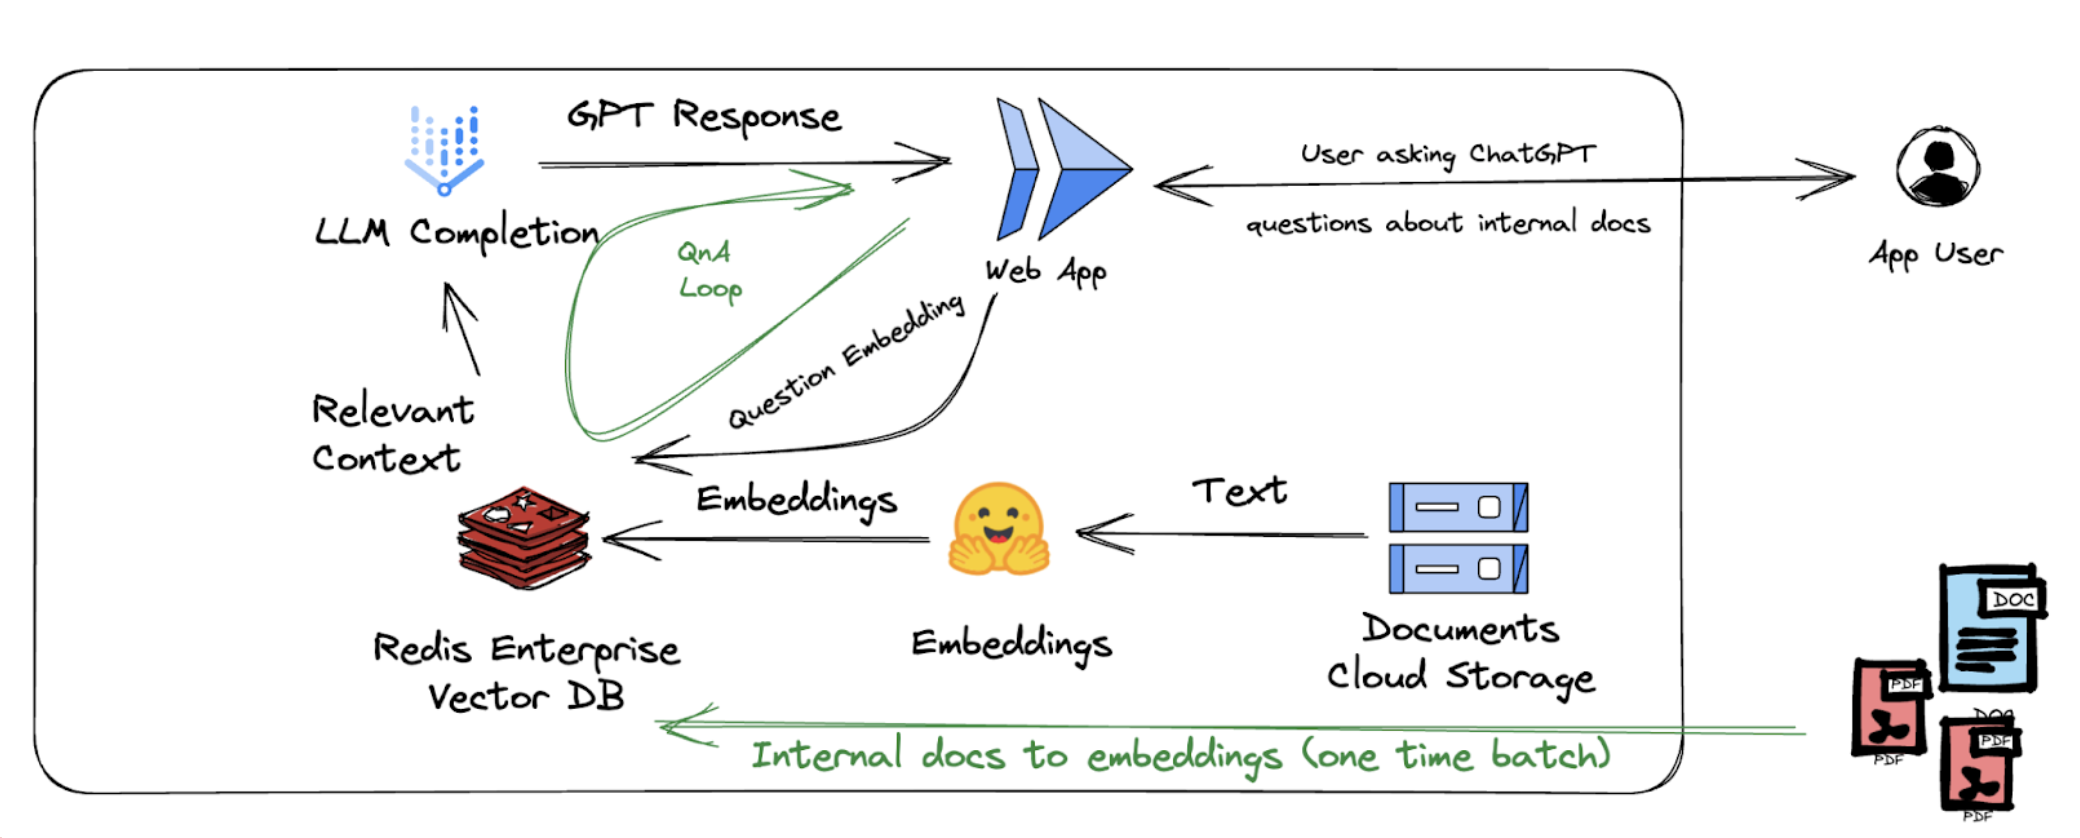
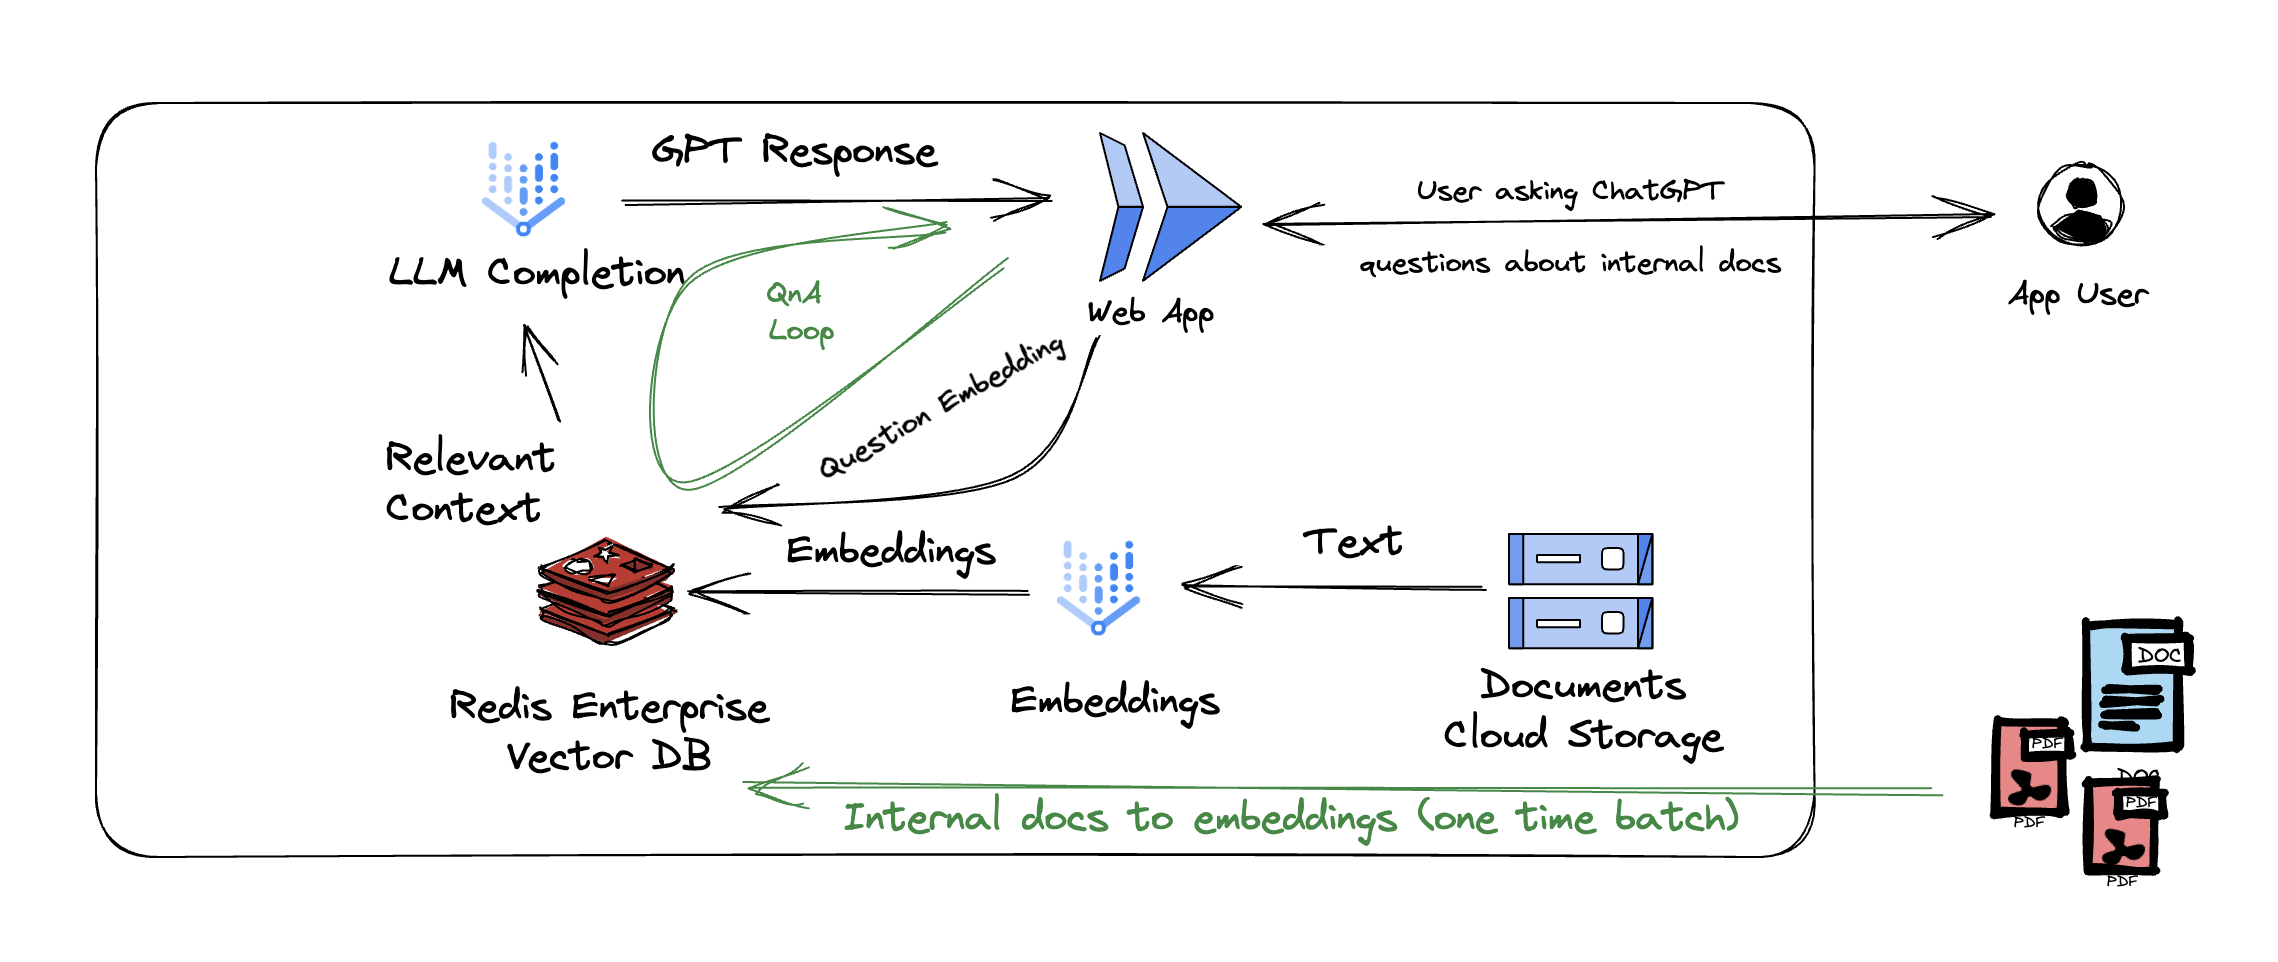
Updated Vertex AI

Changed region(s): [[0.0312, 0.0621, 1.0, 0.9928], [0.4062, 0.2792, 0.4375, 0.3413], [0.0, 0.0931, 0.0312, 0.1241]]

diff --git a/readme.md b/readme.md
@@ -55,7 +55,7 @@ Part 2: Development and Deployment Labs - Part II
 * [Lab 7:](./lab7/) Microservices Observability Walkthrough
     
 Part 3: Gen AI powered applications - How Gen AI + Redis VSS can work together
-* [Lab 8:](./lab8/qa_vertex_redis.ipynb) Document Question Answering with Langchain, VertexAI and Redis
+* [Lab 8:](./lab8/VertexAI_LangChain_Redis.ipynb) Document Question Answering with Langchain, VertexAI and Redis
       
 
      
